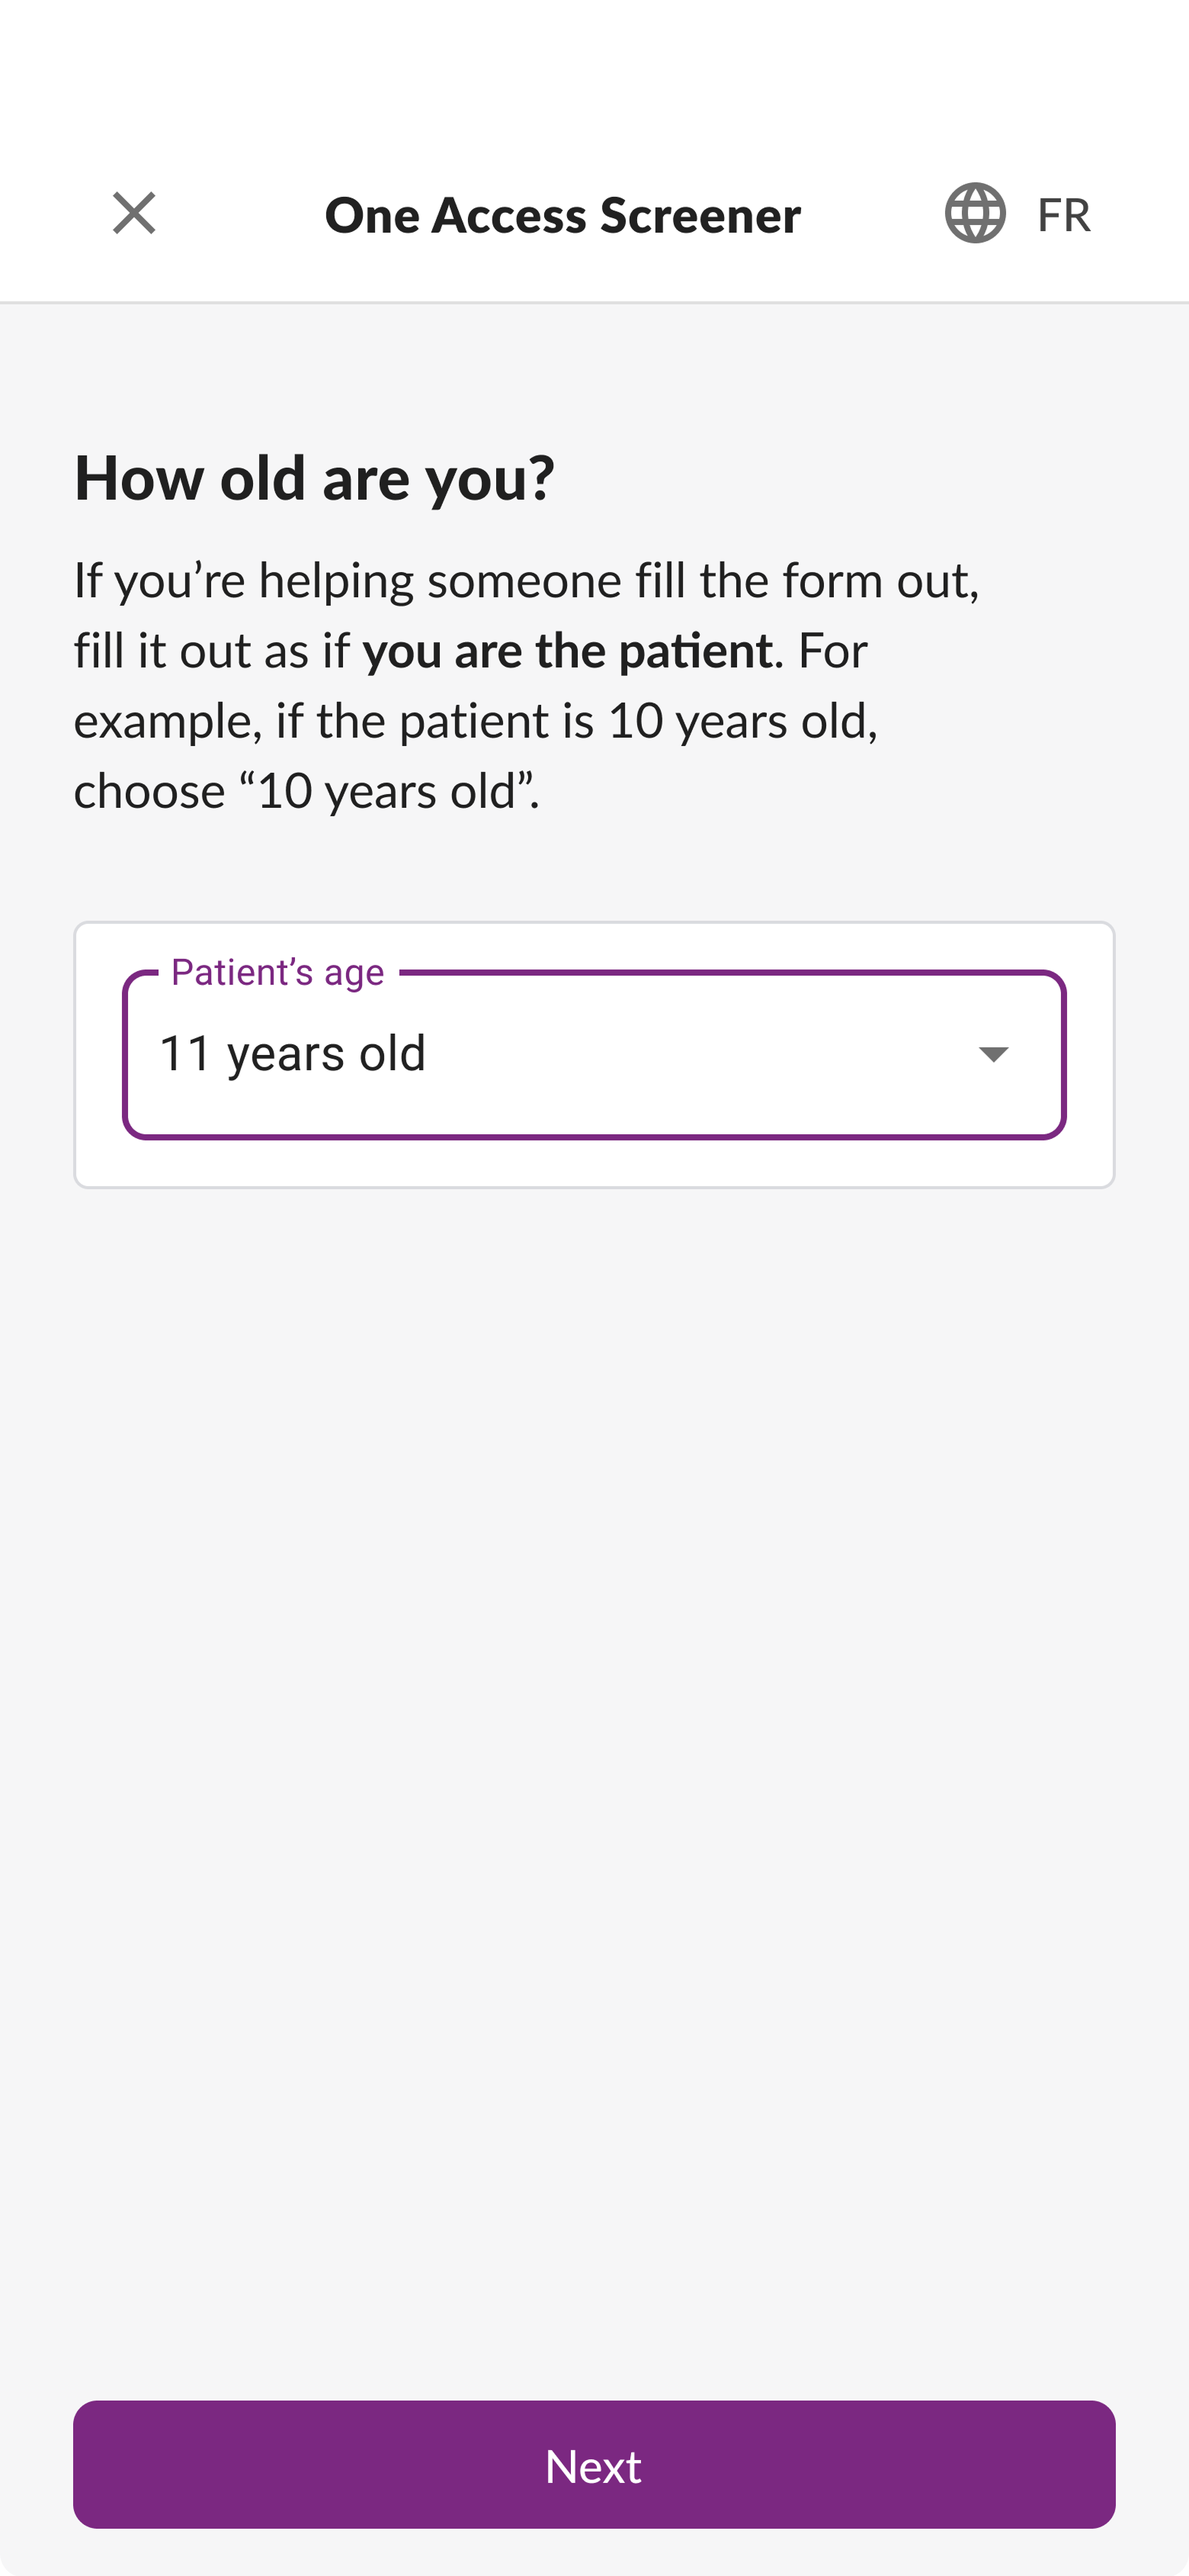
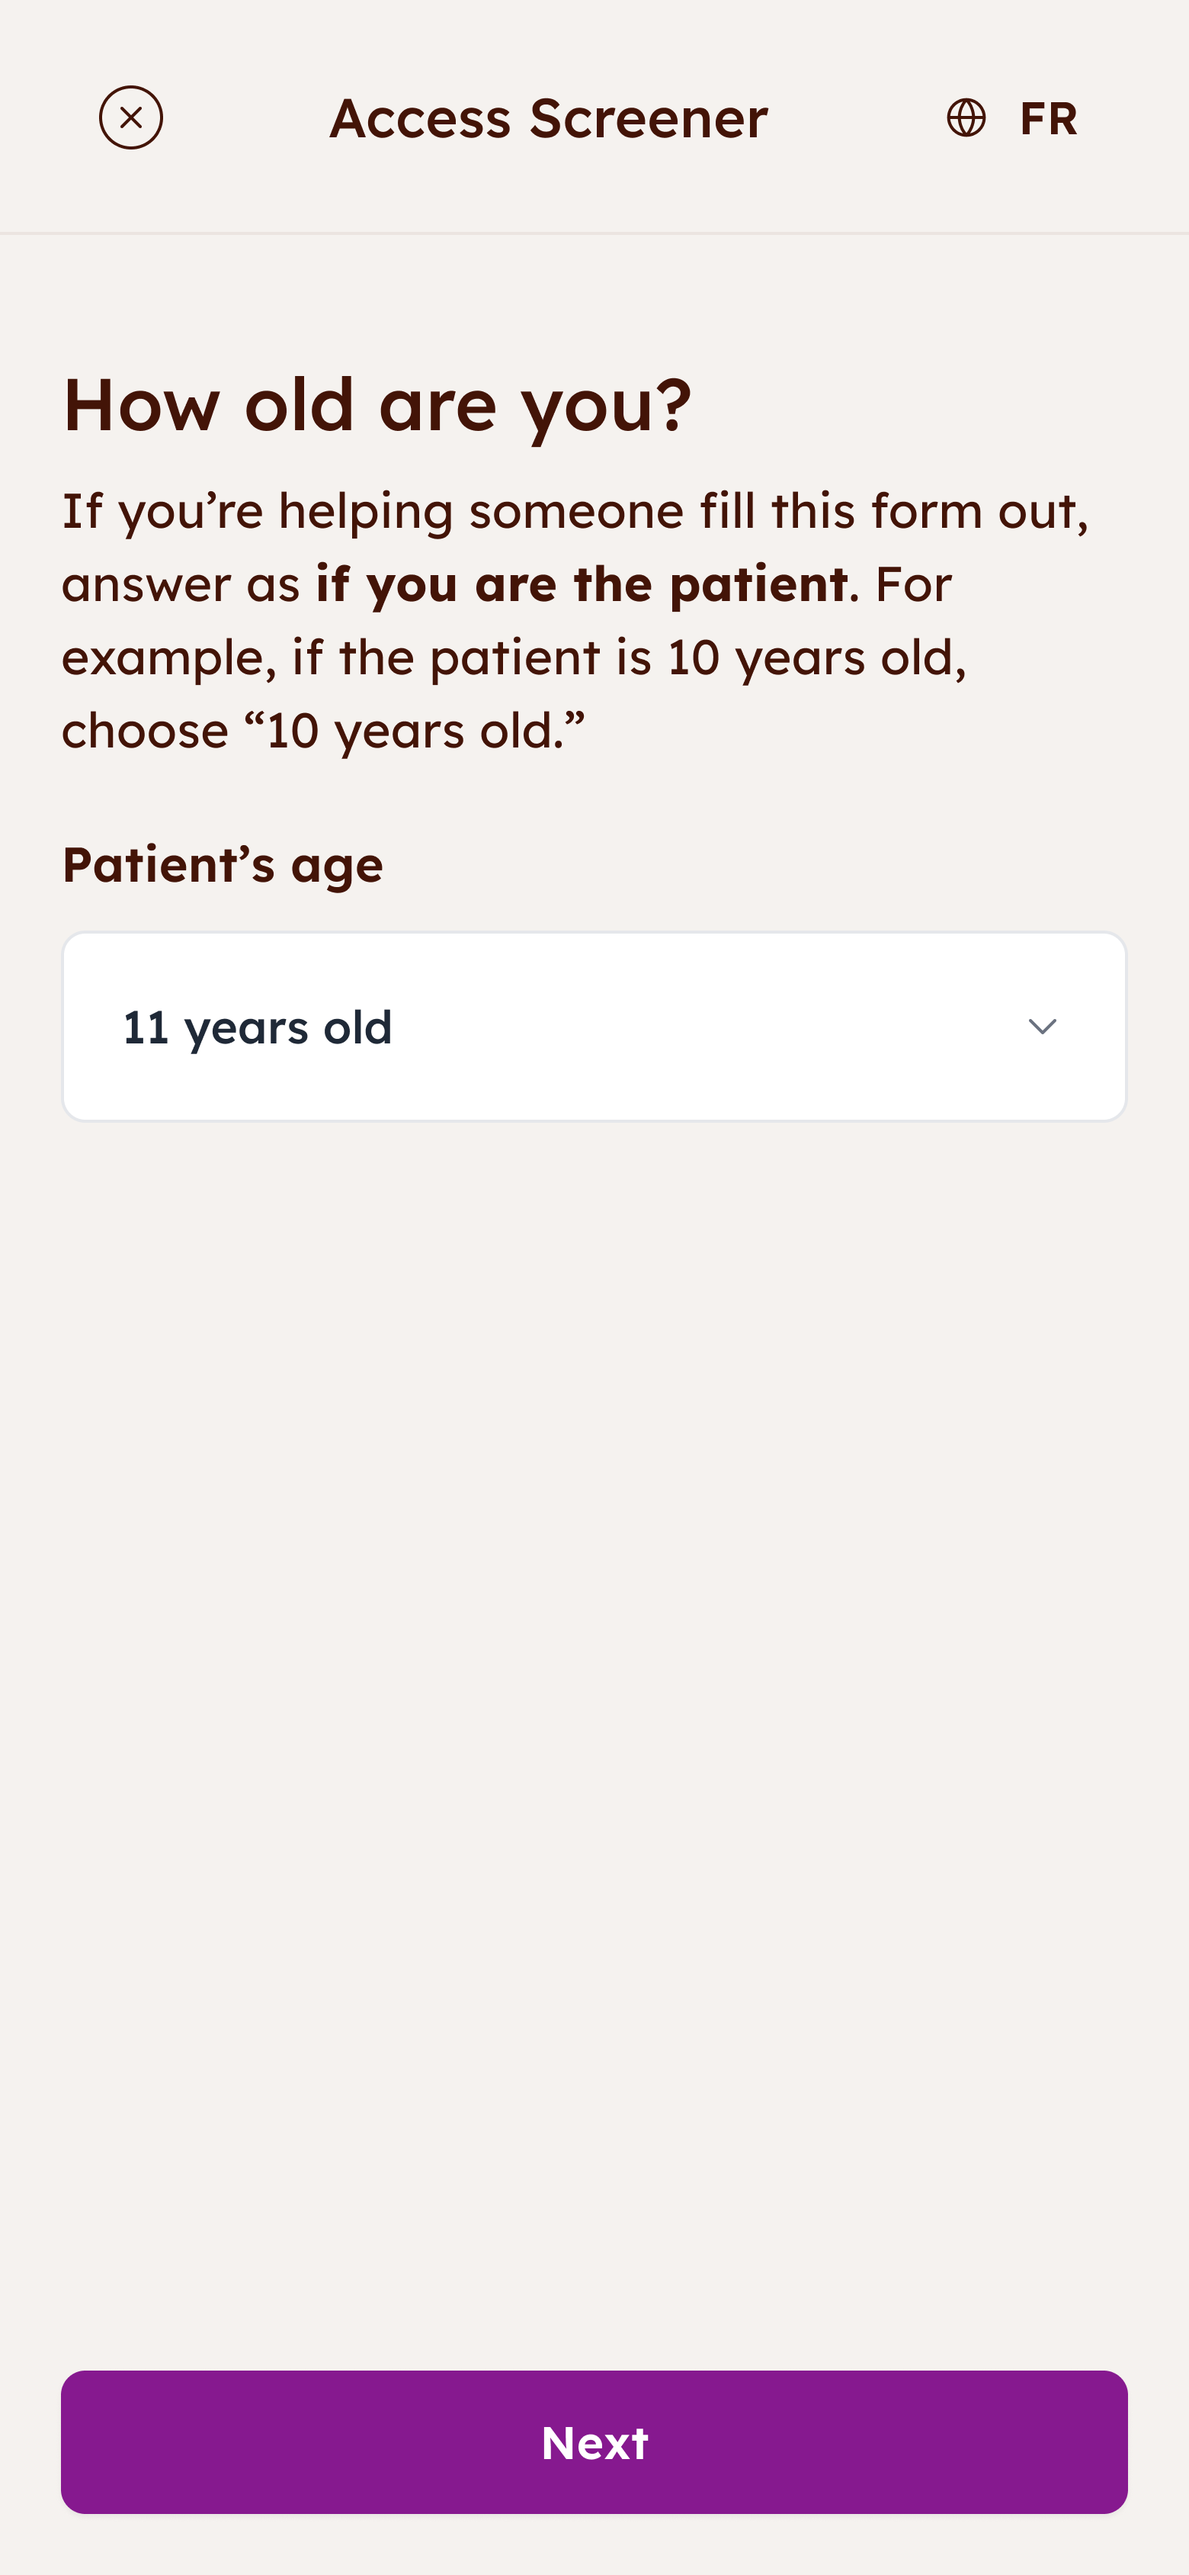
Change images in case1

diff --git a/case1/index.html b/case1/index.html
@@ -135,7 +135,7 @@
           <h2 id="case-image1-title" class="visually-hidden">Interface overview: triage workflow screen</h2>
           <figure class="case-image__wrapper">
             <img 
-              src="../assets/images/case1_2.jpg" 
+              src="../assets/images/Home-1.png" 
               alt="Interface overview of a pediatric ER triage screen with multiple symptom inputs and system decision"
               class="case-image__image"
             />
